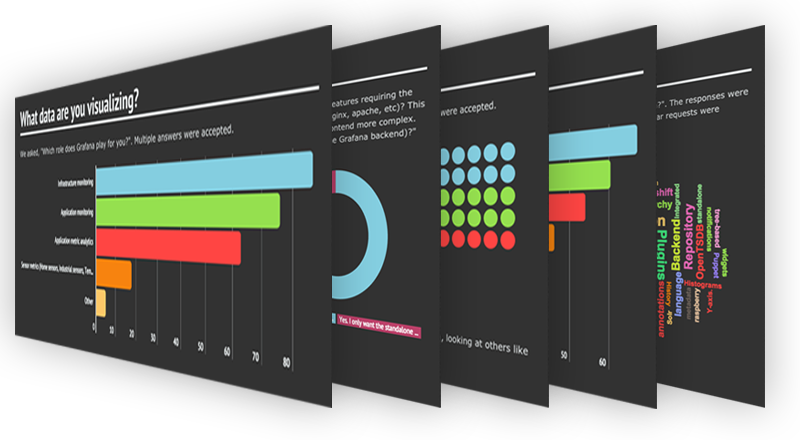
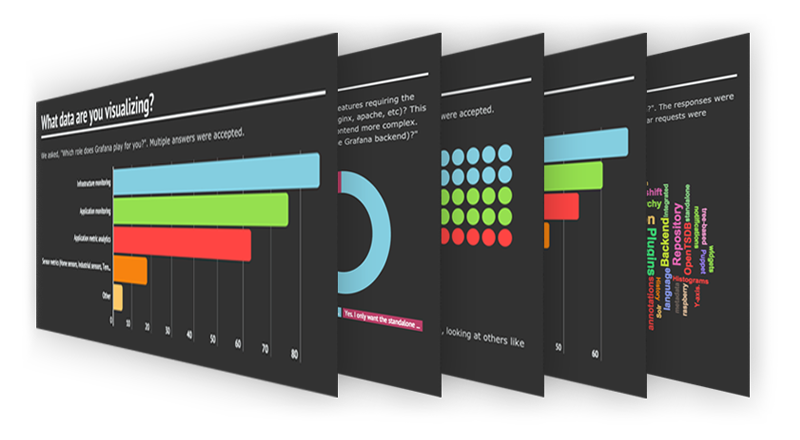
Updated last blogpost

diff --git a/source/blog/2015-04-09-March15-Survery.md b/source/blog/2015-04-09-March15-Survery.md
@@ -4,7 +4,9 @@ author: Torkel Ödegaard
 published_on: April 9, 2015
 ---
 
-<img src="/assets/img/blog/grafana_survey_results800.png" class="no-shadow">
+<a href="https://infogr.am/grafana_user_survey_mar2015">
+  <img src="/assets/img/blog/grafana_survey_results800.png" class="no-shadow">
+</a>
 
 On March 1st 2015, we asked the Grafana community for a favor. We published a public
 survey to solicit feedback on the current state of the product to better understand how
